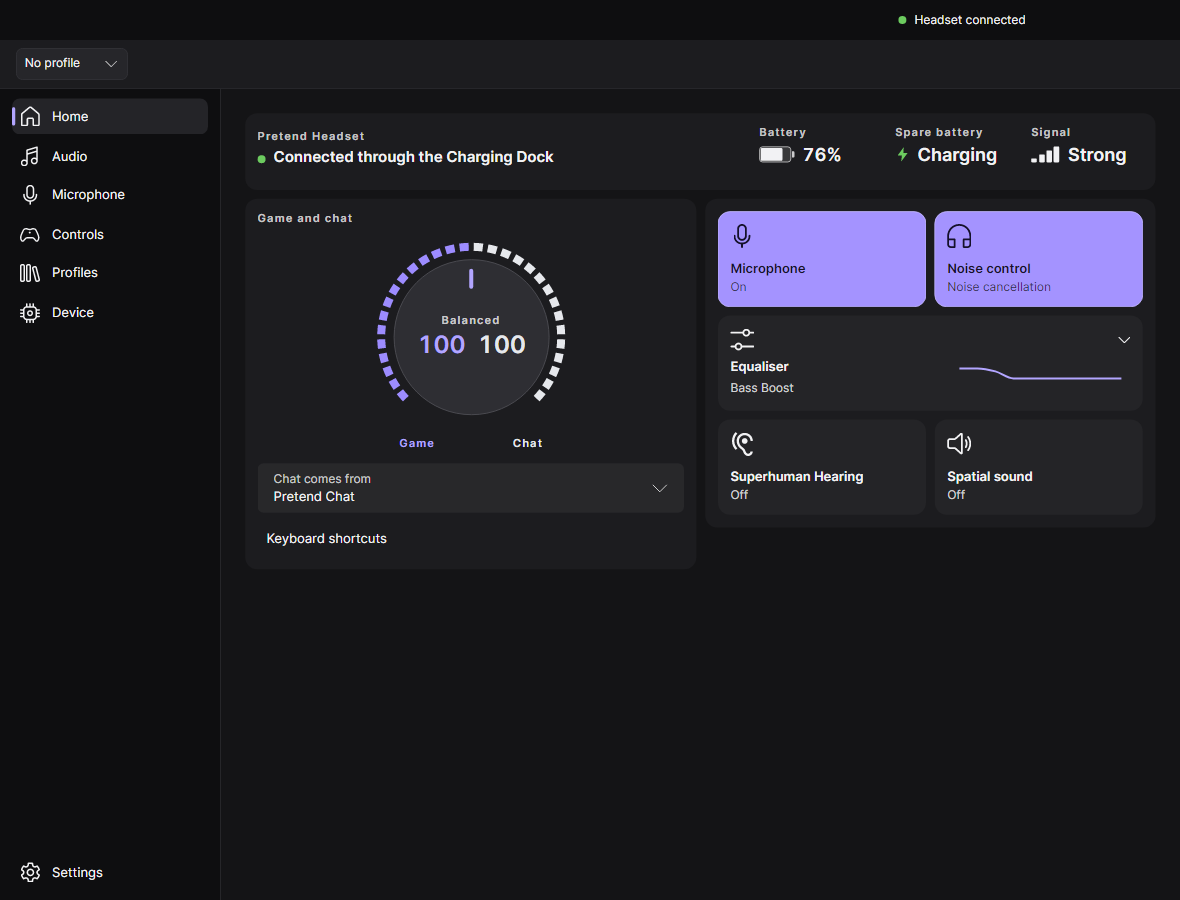
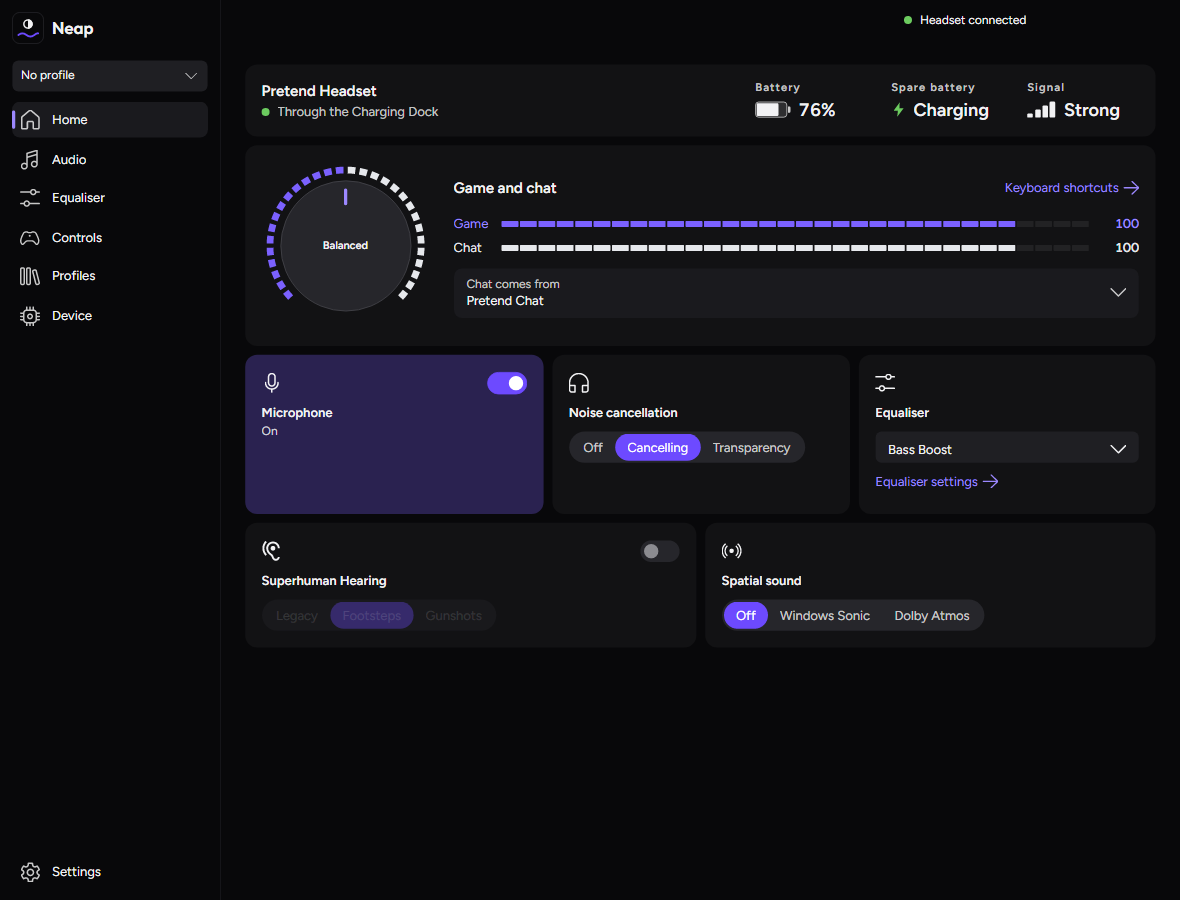
Bring the README up to the 0.3.0 redesign
The five pictures are drawn again from the pretend headset with snap.ps1,
from a pretend settings folder with a chat app, a default profile and a
game's profile, so each matches its caption: Home with Pretend Chat chosen,
Audio, the parametric equaliser, Profiles, and the Device page scrolled to
the dock's lights. Nothing in them comes from the owner's machine.

The text gains the mix's live levels, Compare, the mini panel and the
loudness boost, and says "off" where it said "switched off". The backlog's
item for it goes.

diff --git a/README.md b/README.md
@@ -32,7 +32,8 @@ works on the Xbox edition, where Swarm II's mix isn't officially supported.
 
 Move it with the headset's chat wheel, the dial on Home, or the keyboard
 from inside a game: Ctrl + Alt + Page Down, Page Up and Home, all
-rebindable.
+rebindable. On Windows, a meter for each side shows chat speaking and the
+game's sound as you set it.
 
 ![Home, with the game and chat dial, a chat app chosen, and tiles for the microphone, noise control and equaliser.](docs/screenshots/mix.png)
 
@@ -51,6 +52,8 @@ is running.
   the headset's ten bands, with a plot of what you'll actually hear.
 - **Test tone.** Find a frequency that stands out, then cut or boost it on
   the spot.
+- **Compare.** Hold it to hear the headset flat, and let go to hear your
+  curve again.
 - **Presets stored on the headset**, for game and microphone, so they also
   appear in the phone app and survive uninstalling everything.
 
@@ -77,8 +80,14 @@ reads "Settling…" until its reading steadies.
 
 ### Everything else
 
-- **Clear status.** Connected, no sound, switched off or out of range, each
-  with what still works and the one thing to do.
+- **A mini panel by the clock** for mid-game: the mix, the microphone,
+  noise cancellation, spatial sound and the equaliser preset, without
+  opening the window.
+- **Louder than the headset's maximum.** A loudness boost on the Audio page
+  raises the headset's own level, for when it is too quiet even at full
+  volume.
+- **Clear status.** Connected, no sound, off or out of range, each with
+  what still works and the one thing to do.
 - **Catches the wrong device.** When your system sends sound or the
   microphone somewhere the headset isn't listening, Neap names the right one.
 - **Settings Swarm II's desktop app doesn't have:** wake on motion and voice

diff --git a/BACKLOG.md b/BACKLOG.md
@@ -7,16 +7,6 @@ to GitHub, these become issues.
 
 ## Next, after 0.2.0 (released 8 October)
 
-- **Before 0.3.0 is tagged: bring the README up to the redesign.** The five
-  pictures in `docs/screenshots` (`mix`, `audio`, `equaliser`, `profiles`,
-  `dock`) are of the old layout: a menu with a Microphone page that no longer
-  exists, and `dock.png` shows "Keep high-resolution audio", which is out of
-  0.3.0. Draw them again from the pretend headset with `tools\ui\snap.ps1`,
-  which runs behind other windows, and look at each. Then read the README
-  against the new app: the pages it describes, the Home tiles, the mini panel,
-  spatial sound, the loudness boost, the game and chat levels, and the Status
-  section. Nothing that could identify the owner goes in a picture.
-
 - **Before 0.3.0 is tagged: run part K of the headset checks again, with
   the headset as Windows' sound output.** On 23 October it ran with sound
   going to the PC's own speakers, so the keys had nothing to move and that
